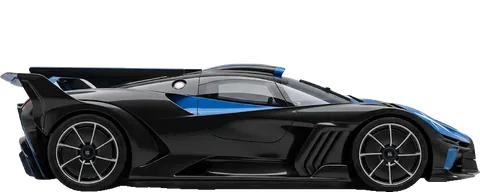
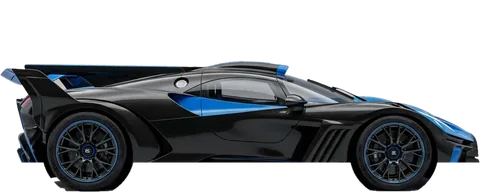
Bolide and Valkyrie: new Gemini photos, clean cut-out, matching rims, race wheel discs
Claude-Session: https://claude.ai/code/session_01YH73bmVKmcSwFykVt1gPrj

Changed region(s): [[0.0, 0.3125, 1.0, 1.0], [0.3125, 0.6875, 0.375, 0.7812], [0.25, 0.5625, 0.2812, 0.5938]]

diff --git a/public/race-wheels-data.js b/public/race-wheels-data.js
@@ -5,7 +5,7 @@ export const WW_DATA = {
   'alfa-romeo-giulia-quadrifoglio': [1187, 475, [[244.6, 383.5, 76.9, 76.5, 42.4, 1], [1004.0, 383.3, 76.6, 76.4, -26.4, 1]]],
   'alfa-romeo-stelvio-quadrifoglio': [1200, 480, [[240.5, 380.7, 82.8, 83.1, -34.0, 1], [992.6, 380.9, 83.1, 83.0, 14.8, 1]]],
   'aston-martin-dbs-superleggera': [868, 347, [[169.4, 274.8, 68.4, 61.2, -44.3, 1], [721.9, 271.3, 71.8, 67.8, 12.6, 1]]],
-  'aston-martin-valkyrie': [1200, 480, [[190, 383, 94.6, 94.6, 0.0, 0], [969.1, 380.0, 85.0, 84.6, -6.5, 1]]],
+  'aston-martin-valkyrie': [1200, 480, [[201.9, 376.7, 88.0, 87.5, -14.0, 1], [964.6, 379.9, 86.5, 86.7, 22.0, 1]]],
   'audi-100-c3-syhara': [909, 364, [[206.6, 305.2, 46.7, 46.8, -11.9, 1], [733.0, 302.8, 46.8, 47.0, 6.4, 1]]],
   'audi-80-quattro': [1200, 480, [[259.5, 396.8, 66.4, 66.2, 14.1, 1], [975.3, 396.6, 67.7, 67.2, -40.6, 1]]],
   'audi-a6-c5': [900, 360, [[189.0, 296.8, 46.7, 46.9, 6.1, 1], [716.0, 296.8, 46.8, 46.9, 4.6, 1]]],
@@ -26,7 +26,7 @@ export const WW_DATA = {
   'bmw-m5-e39': [936, 374, [[201.1, 306.2, 56.1, 55.9, -41.3, 1], [783.1, 304.6, 56.4, 56.5, 38.5, 1]]],
   'bmw-x5-e70': [1200, 480, [[239.5, 382.7, 70.9, 71.9, 16.2, 1], [1003.2, 382.2, 71.1, 71.8, 18.1, 1]]],
   'bmw-x5-m-e70-monte-carlo-blue': [878, 351, [[172.7, 280.9, 58.3, 58.8, 1.9, 1], [743.3, 279.7, 58.7, 59.2, 2.9, 1]]],
-  'bugatti-bolide': [1200, 480, [[248.0, 379.7, 83.2, 82.7, 17.2, 1], [984.2, 383.6, 80.3, 80.8, -18.2, 1]]],
+  'bugatti-bolide': [1200, 480, [[219.0, 379.0, 85.0, 85.0, 0.0, 1], [984.0, 382.0, 85.0, 85.0, 0.0, 1]]],
   'bugatti-chiron-super-sport': [876, 350, [[178.6, 278.3, 63.7, 64.0, -2.8, 1], [724.3, 280.9, 60.3, 60.9, 0.6, 1]]],
   'bugatti-veyron-16-4': [1200, 480, [[205.4, 379.2, 86.8, 86.4, -20.3, 1], [971.1, 385.2, 77.1, 77.3, 4.6, 1]]],
   'byd-atto-3': [780, 312, [[138.5, 248.3, 48.9, 48.4, 39.8, 1], [631.9, 248.5, 48.9, 48.6, 31.2, 1]]],
